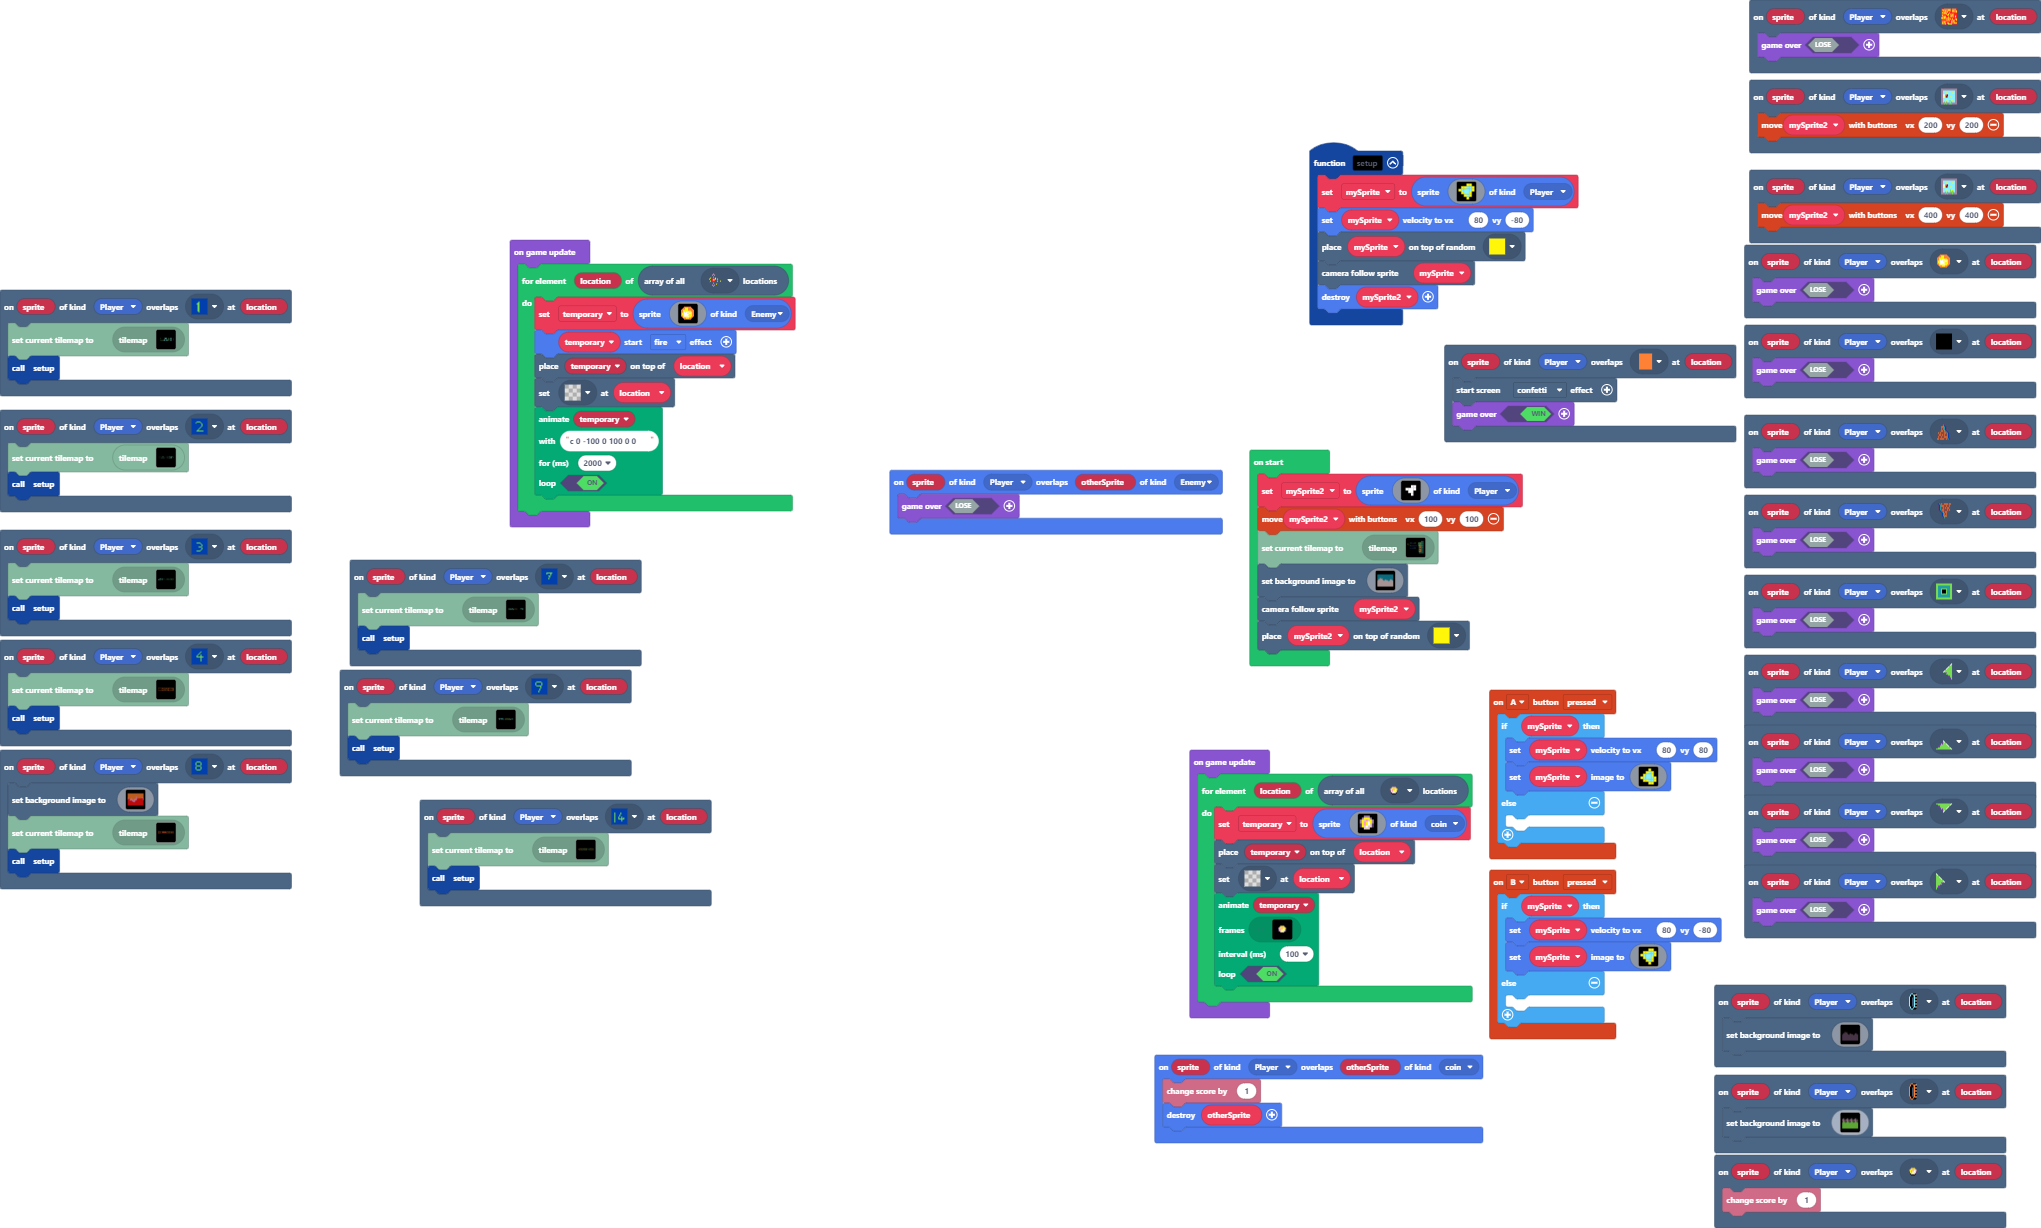
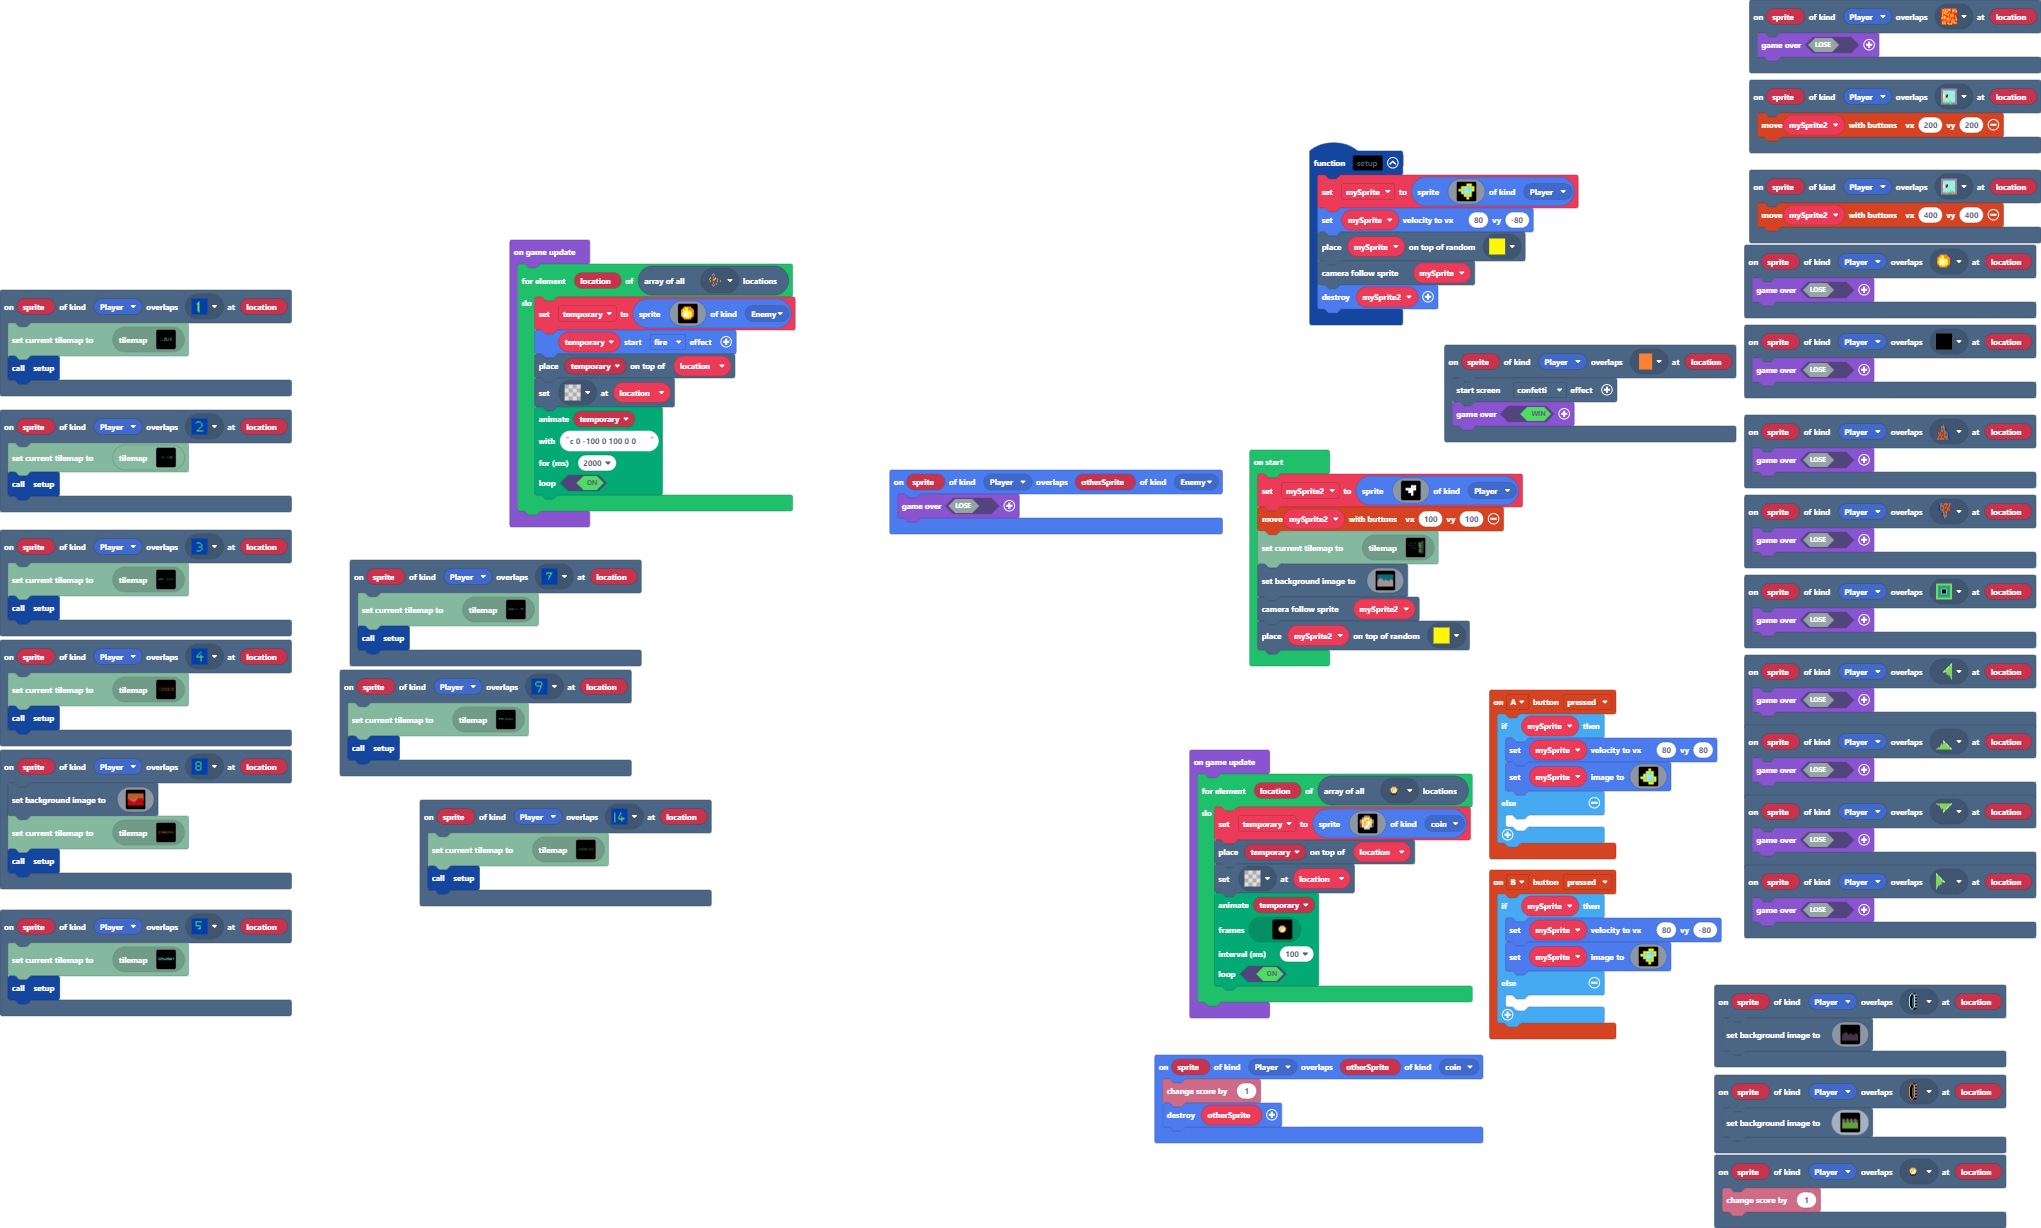
added lvl 5

Changed region(s): [[0.0, 0.7427, 0.1543, 0.8355]]

diff --git a/tilemap.g.ts b/tilemap.g.ts
@@ -132,19 +132,6 @@ namespace myTiles {
 ...............................................................................................................................................................................................................................................................
 ...............................................................................................................................................................................................................................................................
 `, [myTiles.transparency16,myTiles.tile1,myTiles.tile2,myTiles.tile3,myTiles.tile4,myTiles.tile5,myTiles.tile6,myTiles.tile8], TileScale.Sixteen);
-            case "level4":
[1 lines of base64/hex data omitted]
-.......................................................................................................................................
-.......................................................................................................................................
-.......................................................................................................................................
-.......................................................................................................................................
-.......................................................................................................................................
-.......................................................................................................................................
-.......................................................................................................................................
-.......................................................................................................................................
-.......................................................................................................................................
-.......................................................................................................................................
-`, [myTiles.transparency16,myTiles.tile2,myTiles.tile4,myTiles.tile5,myTiles.tile8,myTiles.tile6,myTiles.tile7,myTiles.tile14,myTiles.tile10,myTiles.tile12,myTiles.tile13,myTiles.tile11], TileScale.Sixteen);
             case "level6":
             case "level6":return tiles.createTilemap(hex`1000100000000000000000000000000000000000000000000000000000000000000000000000000000000000000000000000000000000000000000000000000000000000000000000000000000000000000000000000000000000000000000000000000000000000000000000000000000000000000000000000000000000000000000000000000000000000000000000000000000000000000000000000000000000000000000000000000000000000000000000000000000000000000000000000000000000000000000000000000000000000000000000000000000000000000000000000000000000000000000000000000000000000000000000000000000000000`, img`
 . . . . . . . . . . . . . . . . 
@@ -382,19 +369,6 @@ namespace myTiles {
 . . . . . . . . . . . . . . . . 
 . . . . . . . . . . . . . . . . 
 `, [myTiles.transparency16], TileScale.Sixteen);
-            case "level3":
[1 lines of base64/hex data omitted]
-......................................................................................................................................................
-......................................................................................................................................................
-......................................................................................................................................................
-......................................................................................................................................................
-......................................................................................................................................................
-......................................................................................................................................................
-......................................................................................................................................................
-......................................................................................................................................................
-......................................................................................................................................................
-......................................................................................................................................................
-`, [myTiles.transparency16,myTiles.tile2,myTiles.tile12,myTiles.tile1,myTiles.tile5,myTiles.tile8,myTiles.tile3,myTiles.tile4,myTiles.tile6,myTiles.tile7,myTiles.tile11,myTiles.tile13,myTiles.tile14,myTiles.tile15,myTiles.tile53], TileScale.Sixteen);
             case "level7":
[1 lines of base64/hex data omitted]
 ......................................2222222
@@ -452,6 +426,70 @@ namespace myTiles {
 ......................................................................................................................................................
 ......................................................................................................................................................
 `, [myTiles.transparency16,myTiles.tile8,myTiles.tile48,myTiles.tile53,myTiles.tile44,myTiles.tile49,myTiles.tile3,myTiles.tile54,myTiles.tile7,myTiles.tile11,myTiles.tile14], TileScale.Sixteen);
+            case "level3":
[1 lines of base64/hex data omitted]
+......................................................................................................................................................
+......................................................................................................................................................
+......................................................................................................................................................
+......................................................................................................................................................
+......................................................................................................................................................
+......................................................................................................................................................
+......................................................................................................................................................
+......................................................................................................................................................
+......................................................................................................................................................
+......................................................................................................................................................
+`, [myTiles.transparency16,myTiles.tile2,myTiles.tile12,myTiles.tile1,myTiles.tile5,myTiles.tile8,myTiles.tile3,myTiles.tile4,myTiles.tile6,myTiles.tile7,myTiles.tile11,myTiles.tile13,myTiles.tile14,myTiles.tile15], TileScale.Sixteen);
+            case "level4":
[1 lines of base64/hex data omitted]
+.......................................................................................................................................
+.......................................................................................................................................
+.......................................................................................................................................
+.......................................................................................................................................
+.......................................................................................................................................
+.......................................................................................................................................
+.......................................................................................................................................
+.......................................................................................................................................
+.......................................................................................................................................
+.......................................................................................................................................
+`, [myTiles.transparency16,myTiles.tile2,myTiles.tile4,myTiles.tile5,myTiles.tile8,myTiles.tile6,myTiles.tile7,myTiles.tile14,myTiles.tile10,myTiles.tile12,myTiles.tile13,myTiles.tile11], TileScale.Sixteen);
+            case "level19":
+            case "level19":return tiles.createTilemap(hex`1000100000000000000000000000000000000000000000000000000000000000000000000000000000000000000000000000000000000000000000000000000000000000000000000000000000000000000000000000000000000000000000000000000000000000000000000000000000000000000000000000000000000000000000000000000000000000000000000000000000000000000000000000000000000000000000000000000000000000000000000000000000000000000000000000000000000000000000000000000000000000000000000000000000000000000000000000000000000000000000000000000000000000000000000000000000000000`, img`
+. . . . . . . . . . . . . . . . 
+. . . . . . . . . . . . . . . . 
+. . . . . . . . . . . . . . . . 
+. . . . . . . . . . . . . . . . 
+. . . . . . . . . . . . . . . . 
+. . . . . . . . . . . . . . . . 
+. . . . . . . . . . . . . . . . 
+. . . . . . . . . . . . . . . . 
+. . . . . . . . . . . . . . . . 
+. . . . . . . . . . . . . . . . 
+. . . . . . . . . . . . . . . . 
+. . . . . . . . . . . . . . . . 
+. . . . . . . . . . . . . . . . 
+. . . . . . . . . . . . . . . . 
+. . . . . . . . . . . . . . . . 
+. . . . . . . . . . . . . . . . 
+`, [myTiles.transparency16], TileScale.Sixteen);
+            case "level20":
[1 lines of base64/hex data omitted]
+.............................................................................................................................
+.............................................................................................................................
+.............................................................................................................................
+.............................................................................................................................
+.............................................................................................................................
+.............................................................................................................................
+.............................................................................................................................
+.............................................................................................................................
+.............................................................................................................................
+.............................................................................................................................
+.............................................................................................................................
+.............................................................................................................................
+.............................................................................................................................
+.............................................................................................................................
+.............................................................................................................................
+.............................................................................................................................
+`, [myTiles.transparency16,myTiles.tile2,myTiles.tile5,myTiles.tile6,myTiles.tile7,myTiles.tile8,myTiles.tile11,myTiles.tile54], TileScale.Sixteen);
         }
         return null;
     })

diff --git a/main.ts b/main.ts
@@ -59,6 +59,10 @@ scene.onOverlapTile(SpriteKind.Player, assets.tile`myTile9`, function (sprite, l
     effects.confetti.startScreenEffect()
     game.over(true)
 })
+scene.onOverlapTile(SpriteKind.Player, assets.tile`myTile18`, function (sprite, location) {
+    tiles.loadMap(tiles.createMap(tilemap`level20`))
+    setup()
+})
 scene.onOverlapTile(SpriteKind.Player, assets.tile`myTile29`, function (sprite, location) {
     tiles.loadMap(tiles.createMap(tilemap`level16`))
     setup()
